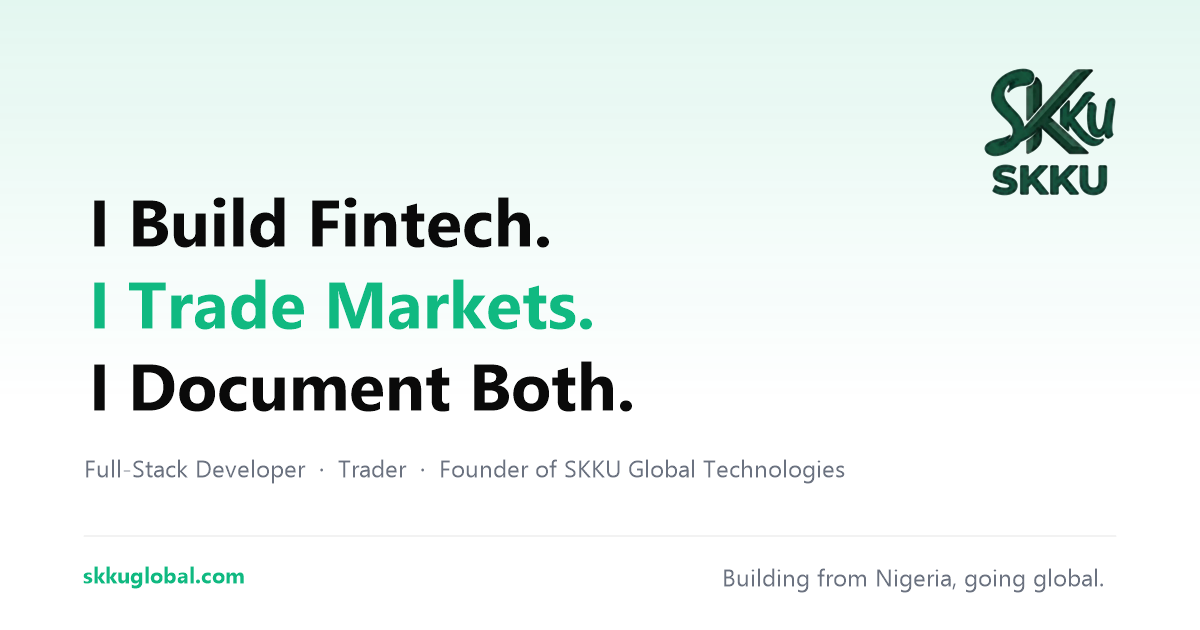
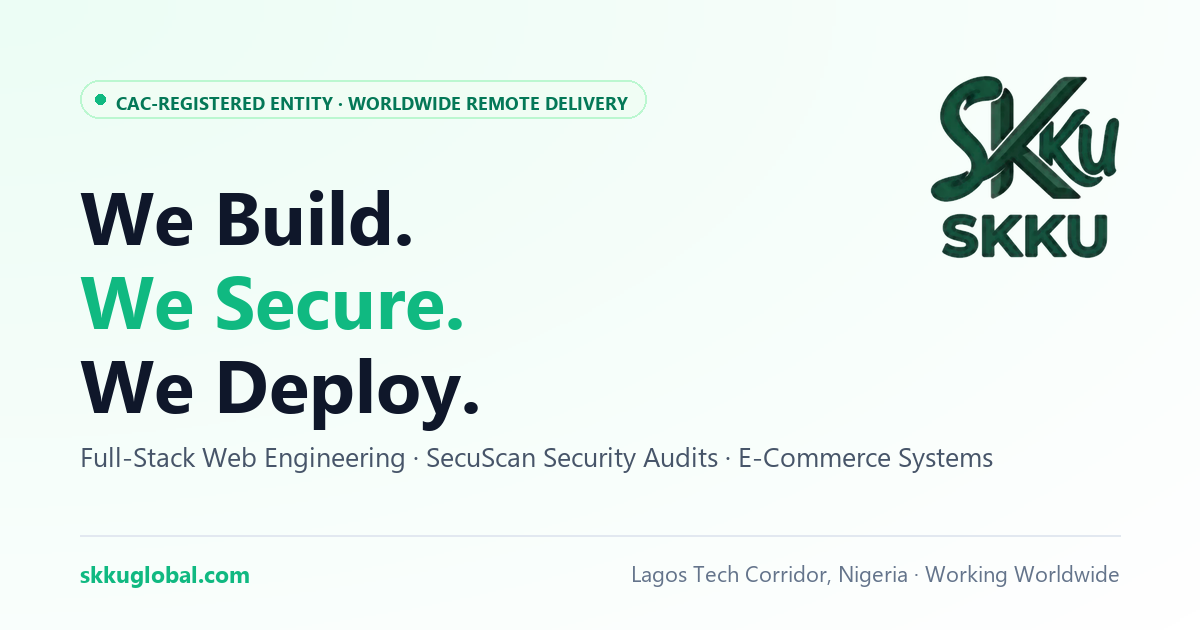
feat: update social preview card to company branding and bust og:image cache

diff --git a/src/seo/siteMeta.js b/src/seo/siteMeta.js
@@ -70,7 +70,7 @@ export const AREA_SERVED = [
   'Worldwide',
 ]
 
-const OG_IMAGE = `${ORIGIN}/og-image.png`
+const OG_IMAGE = `${ORIGIN}/og-image.png?v=2`
 
 /**
  * Every indexable route. `scripts/prerender.mjs` walks this list to decide what

diff --git a/scripts/generate-og-image.py b/scripts/generate-og-image.py
@@ -1,0 +1,83 @@
+import os
+import math
+from PIL import Image, ImageDraw, ImageFont
+
+# Standard Open Graph dimensions
+W, H = 1200, 630
+base = Image.new('RGBA', (W, H), (255, 255, 255, 255))
+draw = ImageDraw.Draw(base)
+
+# Background gradient: subtle soft mint-emerald at top-left to crisp white
+for y in range(0, H, 2):
+    for x in range(0, W, 4):
+        dist = math.sqrt((x / W) ** 2 + (y / H) ** 2)
+        factor = max(0.0, min(1.0, 1.0 - dist * 0.72))
+        r = int(255 * (1 - factor) + 236 * factor)
+        g = int(255 * (1 - factor) + 253 * factor)
+        b = int(255 * (1 - factor) + 245 * factor)
+        draw.rectangle([x, y, x + 3, y + 1], fill=(r, g, b, 255))
+
+# System typography
+font_hero_bold = ImageFont.truetype('C:/Windows/Fonts/segoeuib.ttf', 74)
+font_subtitle = ImageFont.truetype('C:/Windows/Fonts/segoeui.ttf', 27)
+font_badge = ImageFont.truetype('C:/Windows/Fonts/segoeuib.ttf', 18)
+font_foot_bold = ImageFont.truetype('C:/Windows/Fonts/segoeuib.ttf', 23)
+font_foot = ImageFont.truetype('C:/Windows/Fonts/segoeui.ttf', 22)
+
+# Paste Logo at top-right
+logo_path = os.path.join(os.path.dirname(__file__), '..', 'public', 'brand', 'skku-green.png')
+if os.path.exists(logo_path):
+    logo = Image.open(logo_path).convert('RGBA')
+    logo.thumbnail((190, 190), Image.Resampling.LANCZOS)
+    base.paste(logo, (W - 190 - 80, 75), logo)
+
+# Draw Top Status Pill
+pill_text = 'CAC-REGISTERED ENTITY · WORLDWIDE REMOTE DELIVERY'
+pill_bbox = font_badge.getbbox(pill_text)
+text_w = pill_bbox[2] - pill_bbox[0]
+text_h = pill_bbox[3] - pill_bbox[1]
+pw = text_w + 54
+ph = 38
+px, py = 80, 80
+draw.rounded_rectangle(
+    [px, py, px + pw, py + ph],
+    radius=ph // 2,
+    fill=(240, 253, 244, 255),
+    outline=(187, 247, 208, 255),
+    width=2,
+)
+# Emerald dot centered vertically
+dot_r = 5
+dot_cx = px + 20
+dot_cy = py + ph // 2
+draw.ellipse([dot_cx - dot_r, dot_cy - dot_r, dot_cx + dot_r, dot_cy + dot_r], fill=(16, 185, 129, 255))
+draw.text((px + 36, py + (ph - text_h) // 2 - 2), pill_text, fill=(4, 120, 87, 255), font=font_badge)
+
+# Main Hero Headline
+y_pos = 165
+draw.text((80, y_pos), 'We Build.', fill=(15, 23, 42, 255), font=font_hero_bold)
+draw.text((80, y_pos + 84), 'We Secure.', fill=(16, 185, 129, 255), font=font_hero_bold)
+draw.text((80, y_pos + 168), 'We Deploy.', fill=(15, 23, 42, 255), font=font_hero_bold)
+
+# Subtitle / Core Offerings
+sub_y = y_pos + 272
+draw.text(
+    (80, sub_y),
+    'Full-Stack Web Engineering · SecuScan Security Audits · E-Commerce Systems',
+    fill=(71, 85, 105, 255),
+    font=font_subtitle,
+)
+
+# Divider line
+draw.line([(80, H - 95), (W - 80, H - 95)], fill=(226, 232, 240, 255), width=2)
+
+# Footer text
+draw.text((80, H - 72), 'skkuglobal.com', fill=(16, 185, 129, 255), font=font_foot_bold)
+right_text = 'Lagos Tech Corridor, Nigeria · Working Worldwide'
+rt_bbox = font_foot.getbbox(right_text)
+rt_w = rt_bbox[2] - rt_bbox[0]
+draw.text((W - 80 - rt_w, H - 72), right_text, fill=(100, 116, 139, 255), font=font_foot)
+
+out_path = os.path.join(os.path.dirname(__file__), '..', 'public', 'og-image.png')
+base.save(out_path, 'PNG')
+print('Successfully generated public/og-image.png')
